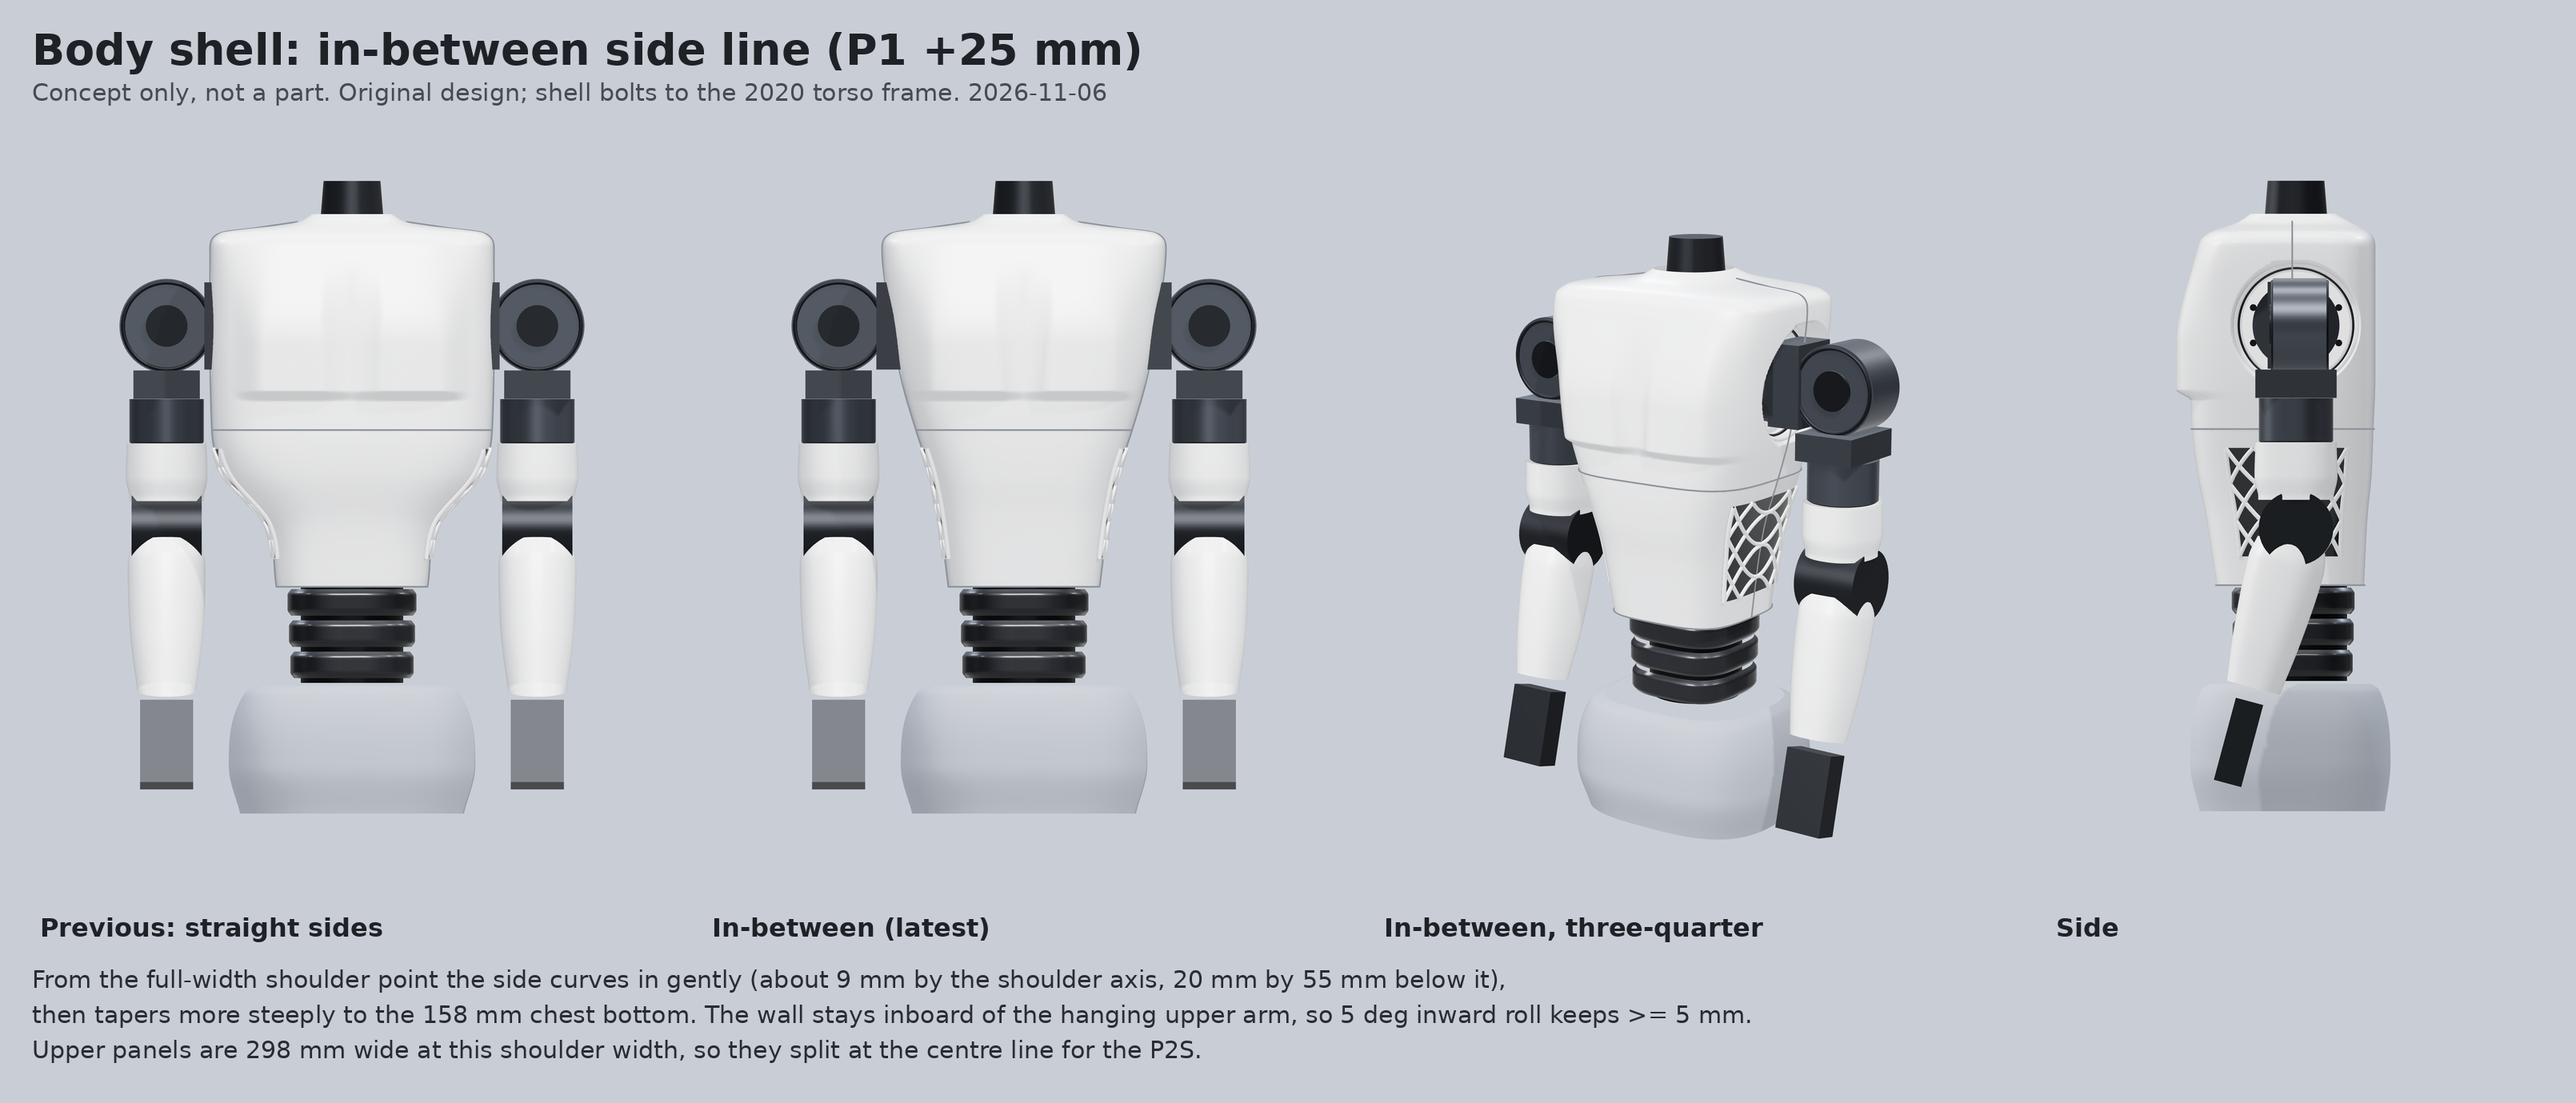
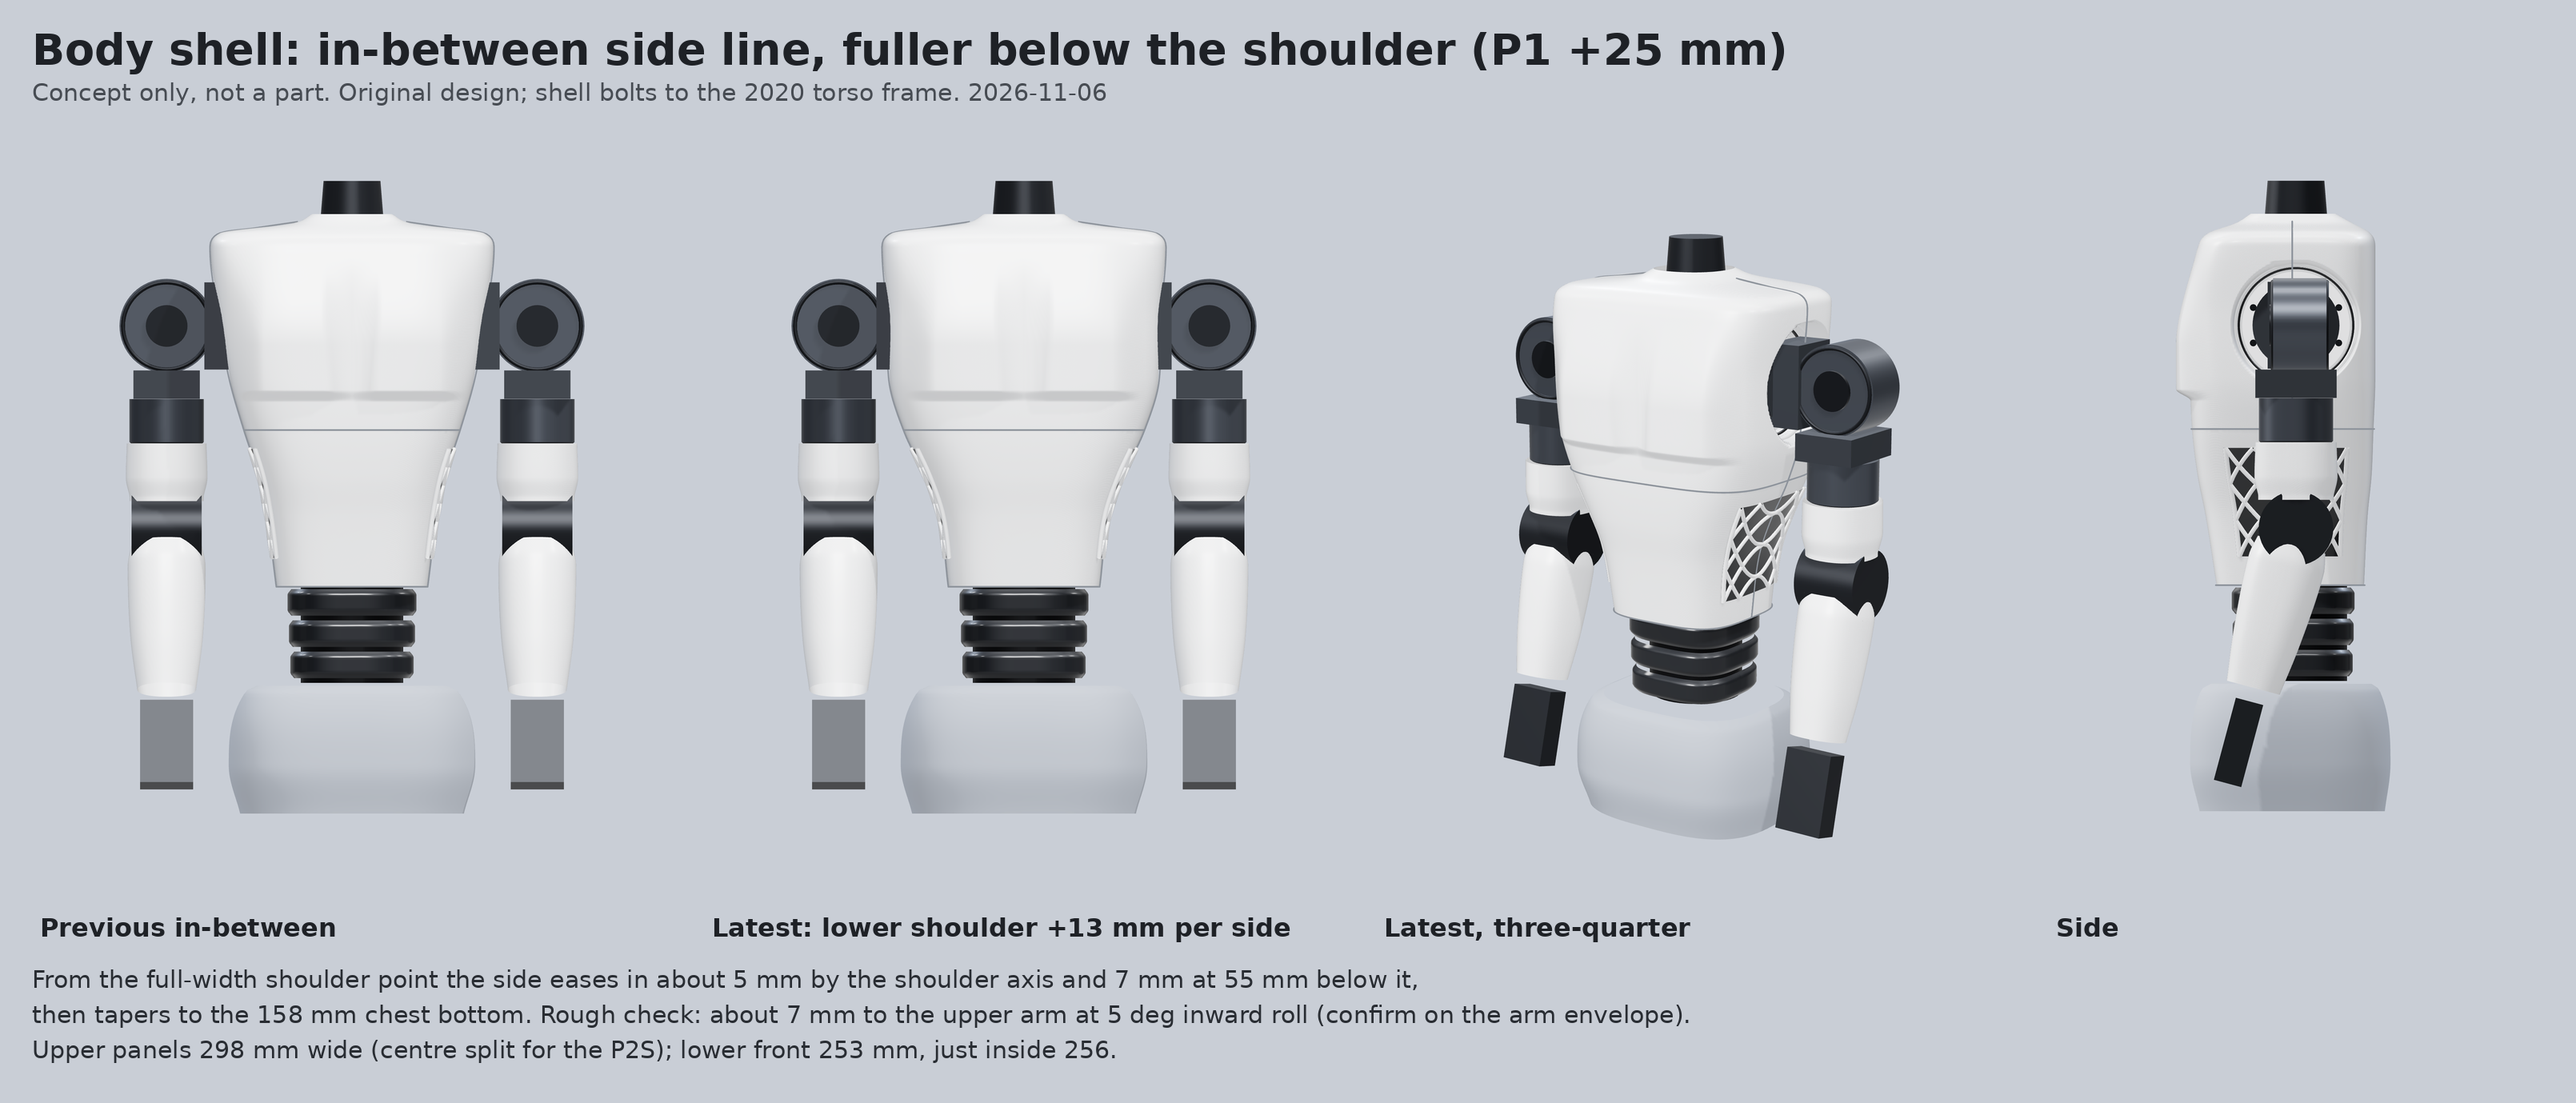
Body shell concept: fuller lower shoulder (+13 mm per side)
Claude-Session: https://claude.ai/code/session_01754Cr9zuADVTu8kWS5Uq1U

diff --git a/hardware/designs/body-shell/concept/generator/scene.js b/hardware/designs/body-shell/concept/generator/scene.js
@@ -131,10 +131,10 @@ const TAPER_Z = ZS - 46 - 65;
 const chest = [
   [F0 - 6, 79, 80, 76, 3.6],
   [ZS - 200, WALL - 60, 92, 80, 3.6],
-  [ZS - 160, WALL - 52, 100, 84, 3.8],
-  [ZS - 111, WALL - 36, 106, 86, 4.0],
-  [ZS - 55, WALL - 20, 108, 88, 4.4],
-  [ZS + 10, WALL - 9, 108, 88, 4.8],
+  [ZS - 160, WALL - 46, 100, 84, 3.8],
+  [ZS - 111, WALL - 23, 106, 86, 4.0],
+  [ZS - 55, WALL - 7, 108, 88, 4.4],
+  [ZS + 10, WALL - 5, 108, 88, 4.8],
   [F1 + 12, WALL, 100, 88, 4.8],   // shoulder point
   [F1 + 28, WALL - 10, 88, 82, 4.2],
   [F1 + 38, 64, 60, 64, 3.0],

diff --git a/hardware/designs/body-shell/concept/generator/compose.py b/hardware/designs/body-shell/concept/generator/compose.py
@@ -43,11 +43,11 @@ sheet([(crop('w0.png', (700, 300, 2500, 2300), w=900), 'Shoulders as built: roll
       'Body shell, concept B: chest plate and shoulder width', sub, 'SHELL_CONCEPT_WIDTH.png',
       ['Head removed until it is designed. Chest has pec masses, a sternum groove and a crisp lower edge; the black yoke panel is gone.',
        'The +25 mm option lengthens P1 (arm thread); the shell shoulder line widens with it. Shell upper panels then need a centre split for the P2S.'])
-sheet([(crop('s25.png', (700, 300, 2500, 2300), w=800), 'Previous: straight sides'),
-       (crop('m25.png', (700, 300, 2500, 2300), w=800), 'In-between (latest)'),
-       (crop('m25iso.png', (700, 200, 2500, 2400), w=800), 'In-between, three-quarter'),
+sheet([(crop('m25a.png', (700, 300, 2500, 2300), w=800), 'Previous in-between'),
+       (crop('m25.png', (700, 300, 2500, 2300), w=800), 'Latest: lower shoulder +13 mm per side'),
+       (crop('m25iso.png', (700, 200, 2500, 2400), w=800), 'Latest, three-quarter'),
        (crop('m25side.png', (900, 300, 2300, 2300), w=620), 'Side')],
-      'Body shell: in-between side line (P1 +25 mm)', sub, 'SHELL_CONCEPT_BLEND.png',
-      ['From the full-width shoulder point the side curves in gently (about 9 mm by the shoulder axis, 20 mm by 55 mm below it),',
-       'then tapers more steeply to the 158 mm chest bottom. The wall stays inboard of the hanging upper arm, so 5 deg inward roll keeps >= 5 mm.',
-       'Upper panels are 298 mm wide at this shoulder width, so they split at the centre line for the P2S.'])
+      'Body shell: in-between side line, fuller below the shoulder (P1 +25 mm)', sub, 'SHELL_CONCEPT_BLEND.png',
+      ['From the full-width shoulder point the side eases in about 5 mm by the shoulder axis and 7 mm at 55 mm below it,',
+       'then tapers to the 158 mm chest bottom. Rough check: about 7 mm to the upper arm at 5 deg inward roll (confirm on the arm envelope).',
+       'Upper panels 298 mm wide (centre split for the P2S); lower front 253 mm, just inside 256.'])

diff --git a/hardware/designs/body-shell/concept/README.md b/hardware/designs/body-shell/concept/README.md
@@ -51,7 +51,7 @@ the outer frame slots, M3 heat-set inserts in the panel bosses, lapped seams.
 - Collar mounting (from the arm thread): the 8 unused outboard M4 holes on the pitch RS03's 98 mm bolt circle, new M4x10
   button heads, 2–3 mm flange, bore at least 72 mm. P1 stays beyond Y 101.75 from r 24 to 54, so the flange must stay inside that.
 - Sides are pulled in to Y ±90 from 100–200 mm below the shoulder axis, as the arm thread asked (at least 5 mm at 5° inward roll).
-  The in-between line keeps the wall 9–20 mm inside the shoulder point down to 55 mm below the axis, so 5° inward roll keeps at least 5 mm.
+  The in-between line keeps the wall 5–7 mm inside the shoulder point down to 55 mm below the axis (about 7 mm to the arm at 5° inward roll, rough check).
   Re-check once Joey picks the inward roll stop (5° or 15°); see `../../left-arm/envelope/`.
 - The exposed shoulder parts in these renders are simple stand-ins, not the real P1/P2 geometry.
 - At 215 + 195 + 90 mm the arms read short against a 5 ft body in the proportion view.
